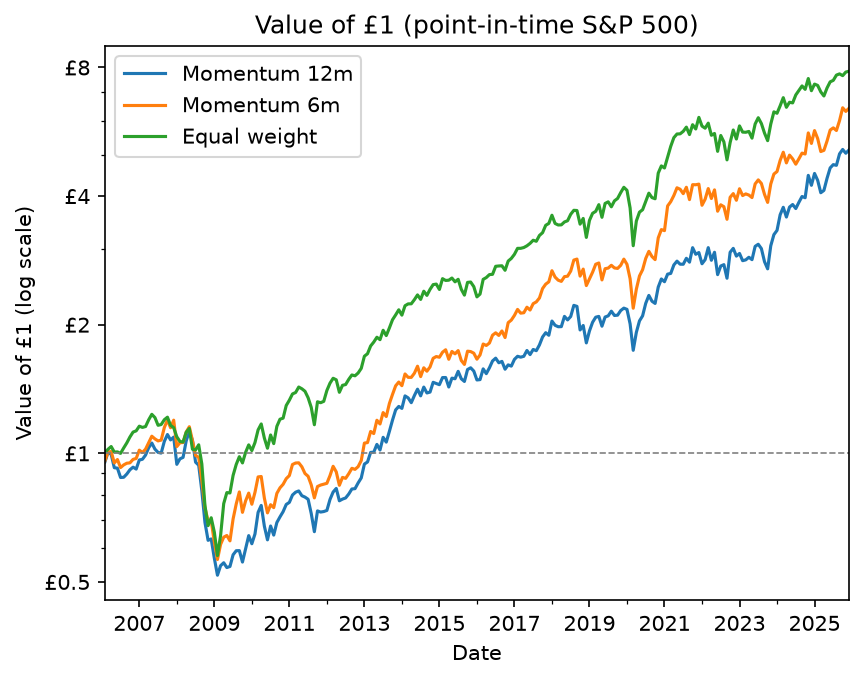
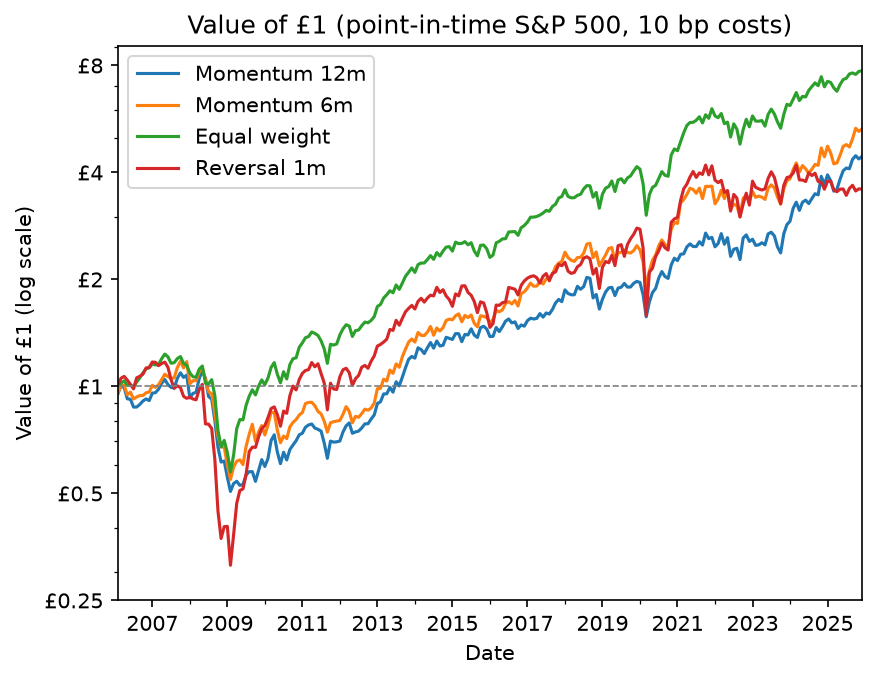
added more metrics

diff --git a/run.py b/run.py
@@ -1,17 +1,20 @@
 import sys
-import matplotlib.pyplot as plt
-import pandas as pd
-import matplotlib.ticker as mticker
-
 sys.path.insert(0, "src")
 
+from pathlib import Path
+import matplotlib.pyplot as plt
+import matplotlib.ticker as mticker
+import pandas as pd
+
 from data import load_prices, to_monthly, to_returns
-from strategies import momentum, equal_weight
-from backtest import run_backtest, equity_curve, first_invested_date
-from metrics import summary
 from universe import load_sp500_history, membership_table
+from strategies import momentum, equal_weight, reversal
+from backtest import run_backtest, first_invested_date, turnover
+from metrics import summary
 
 if __name__ == "__main__":
+    COST = 0.001   # trading cost per unit of turnover: 10 basis points
+
     # 1. Data: prices for all historical S&P 500 members we could download
     monthly_prices = to_monthly(load_prices("data/prices_sp500_hist.csv"))
     monthly_returns = to_returns(monthly_prices)
@@ -25,6 +28,7 @@ if __name__ == "__main__":
         "Momentum 12m": lambda p: momentum.weights(p, members=members, lookback=12),
         "Momentum 6m":  lambda p: momentum.weights(p, members=members, lookback=6),
         "Equal weight": lambda p: equal_weight.weights(p, members=members),
+        "Reversal 1m":  lambda p: reversal.weights(p, members=members),
     }
 
     # 4. Weights for each strategy
@@ -33,30 +37,40 @@ if __name__ == "__main__":
     # 5. Common start: the latest first-invested date, so the comparison is fair
     start = max(first_invested_date(w) for w in all_weights.values())
 
-    # 6. Backtest each strategy over the common period: one column of returns each
+    # 6. Backtest each strategy over the common period, net of costs
     strategy_returns = pd.DataFrame({
-        name: run_backtest(w, monthly_returns).loc[start:]
+        name: run_backtest(w, monthly_returns, cost=COST).loc[start:]
         for name, w in all_weights.items()
     })
 
     # 7. Comparison table: one row per strategy
-    table = pd.DataFrame({name: summary(strategy_returns[name])
+    market = strategy_returns["Equal weight"]
+    table = pd.DataFrame({name: summary(strategy_returns[name], market=market)
                           for name in strategy_returns}).T
+    table["Turnover"] = pd.Series({
+        name: turnover(w, monthly_returns).loc[start:].mean() * 12
+        for name, w in all_weights.items()
+    })
 
     formatted = table.copy()
-    for col in ["Total return", "Annual return", "Volatility", "Max drawdown"]:
+    for col in ["Total return", "Annual return", "Volatility", "Max drawdown",
+                "Turnover", "Alpha"]:
         formatted[col] = table[col].map("{:.1%}".format)
-    formatted["Sharpe"] = table["Sharpe"].map("{:.2f}".format)
+    for col in ["Sharpe", "Sortino", "Calmar", "Beta"]:
+        formatted[col] = table[col].map("{:.2f}".format)
 
     print(f"Period: {strategy_returns.index[0].date()} to "
-          f"{strategy_returns.index[-1].date()}\n")
+          f"{strategy_returns.index[-1].date()}")
+    print(f"Costs: {COST * 10000:.0f} bp per unit of turnover\n")
     print(formatted.to_string())
 
     # 8. Equity curves, only for the plot
     equities = (1 + strategy_returns).cumprod()
+    Path("reports").mkdir(exist_ok=True)
 
-    ax = equities.plot(logy=True, title="Value of £1 (point-in-time S&P 500)")
-    ax.set_yticks([0.5, 1, 2, 4, 8])
+    ax = equities.plot(logy=True, title=f"Value of £1 (point-in-time S&P 500, "
+                                        f"{COST * 10000:.0f} bp costs)")
+    ax.set_yticks([0.25, 0.5, 1, 2, 4, 8])
     ax.yaxis.set_major_formatter(mticker.FuncFormatter(lambda y, _: f"£{y:g}"))
     ax.yaxis.set_minor_formatter(mticker.NullFormatter())
     ax.axhline(1, color="grey", linewidth=0.8, linestyle="--")

diff --git a/src/metrics.py b/src/metrics.py
@@ -20,11 +20,31 @@ def max_drawdown(returns):
     drawdown = 1 - equity / peak
     return drawdown.max()
 
-def summary(returns, periods_per_year=12):
-    return pd.Series({
+def sortino_ratio(returns, periods_per_year=12):
+    downside = np.sqrt((returns.clip(upper=0) ** 2).mean())
+    return returns.mean() / downside * np.sqrt(periods_per_year)
+
+def calmar_ratio(returns, periods_per_year=12):
+    return annual_return(returns, periods_per_year) / max_drawdown(returns)
+
+def beta(returns, market):
+    return returns.cov(market) / market.var()
+
+def alpha(returns, market, periods_per_year=12):
+    return (returns.mean() - beta(returns, market) * market.mean()) * periods_per_year
+
+def summary(returns, market=None, periods_per_year=12):
+    """All metrics for one strategy's period returns, as a pandas Series."""
+    stats = {
         "Total return":  total_return(returns),
         "Annual return": annual_return(returns, periods_per_year),
         "Volatility":    annual_volatility(returns, periods_per_year),
         "Sharpe":        sharpe_ratio(returns, periods_per_year),
+        "Sortino":       sortino_ratio(returns, periods_per_year),
         "Max drawdown":  max_drawdown(returns),
-    })
+        "Calmar":        calmar_ratio(returns, periods_per_year),
+    }
+    if market is not None:
+        stats["Beta"] = beta(returns, market)
+        stats["Alpha"] = alpha(returns, market, periods_per_year)
+    return pd.Series(stats)

diff --git a/src/backtest.py b/src/backtest.py
@@ -1,7 +1,8 @@
-def run_backtest(weights, returns):
+def run_backtest(weights, returns, cost = 0.0):
     held = weights.shift(1)
     portfolio_returns = (held * returns).sum(axis = 1)
-    return portfolio_returns
+    trading_costs = cost * turnover(weights, returns).shift(1).fillna(0.0)
+    return portfolio_returns - trading_costs
 
 def equity_curve(portfolio_returns):
     return (portfolio_returns + 1).cumprod()
@@ -9,3 +10,10 @@ def equity_curve(portfolio_returns):
 def first_invested_date(weights):
     invested = weights.shift(1).sum(axis=1) > 0
     return invested.idxmax()
+
+def turnover(weights, returns):
+    previous = weights.shift(1).fillna(0.0)
+    grown = previous * (1 + returns.fillna(0.0))
+    total = grown.sum(axis=1)
+    drifted = grown.div(total.where(total != 0), axis=0).fillna(0.0)
+    return (weights - drifted).abs().sum(axis=1)

diff --git a/src/strategies/reversal.py b/src/strategies/reversal.py
@@ -1,0 +1,10 @@
+def weights(monthly_prices, members=None, lookback=1, bottom_frac=0.1):
+    signal = monthly_prices / monthly_prices.shift(lookback) - 1
+    if members is not None:
+        signal = signal.where(members)
+    ranks = signal.rank(axis = 1, pct = True)
+    losers = ranks <= bottom_frac
+    selected = losers.astype(float)
+    w = selected.div(selected.sum(axis = 1), axis = 0)
+    w = w.fillna(0.0)
+    return w
